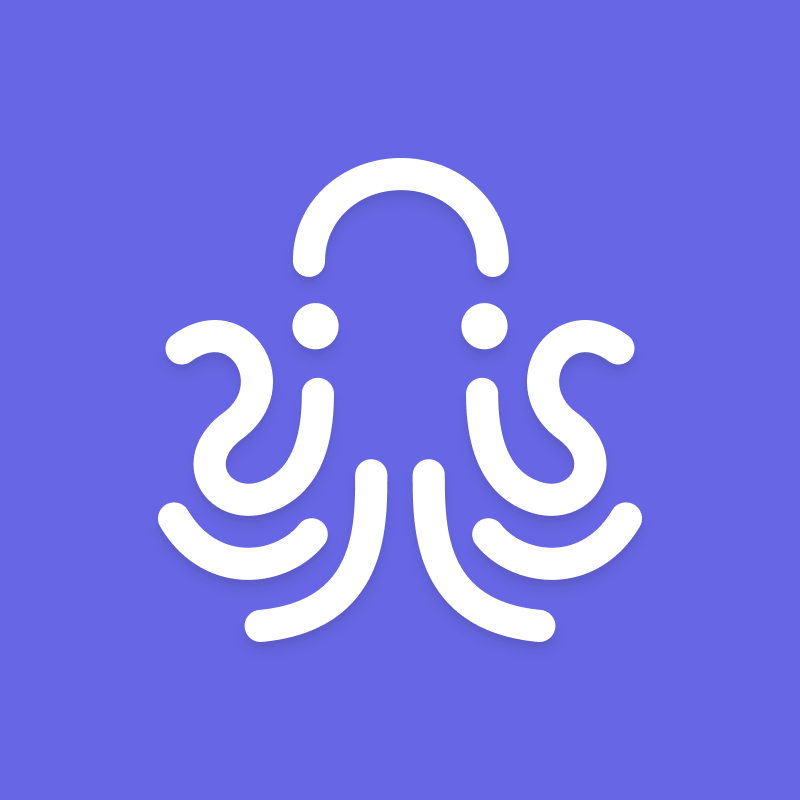
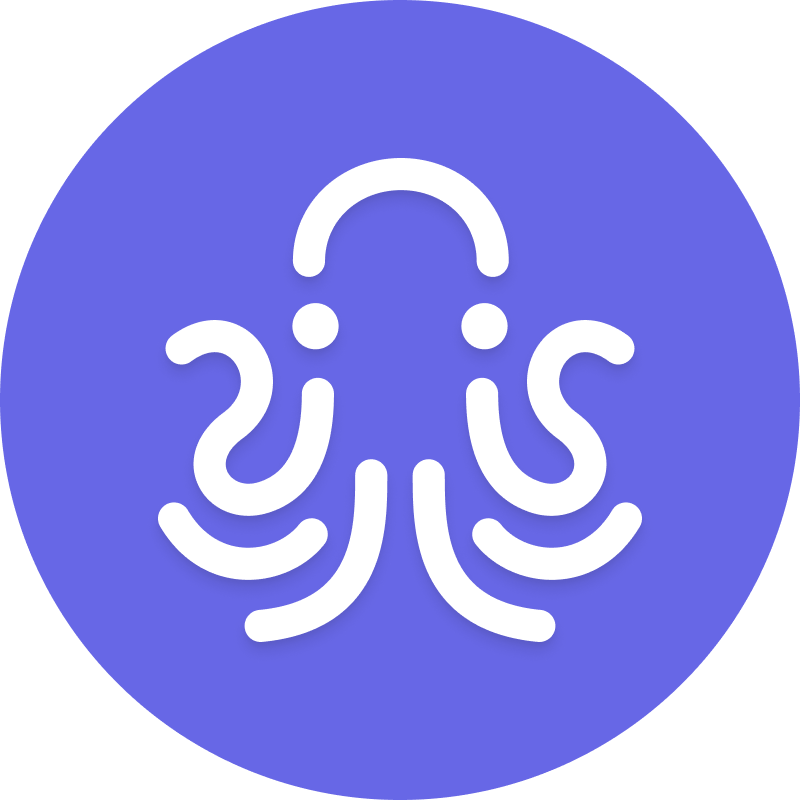
Small type improvements (#300)
* Small type improvements
* Add round icon

diff --git a/src/css/tailwind.css b/src/css/tailwind.css
@@ -552,6 +552,15 @@ html[data-theme='dark'] .sl-text-warning {
   line-height: 28px;
 }
 
+.markdown h1,
+.markdown h2,
+.markdown h3,
+.markdown h4,
+.markdown h5,
+.markdown h6 {
+  letter-spacing: -0.02rem;
+}
+
 .markdown h1:first-child {
   --ifm-h1-font-size: 2.5rem;
   --ifm-h1-vertical-rhythm-bottom: 1;
@@ -574,6 +583,10 @@ html[data-theme='dark'] .sl-text-warning {
 
 .table-of-contents {
   font-size: 0.875rem;
+}
+
+.table-of-contents__link {
+  line-height: 1.25rem;
 }
 
 code {
